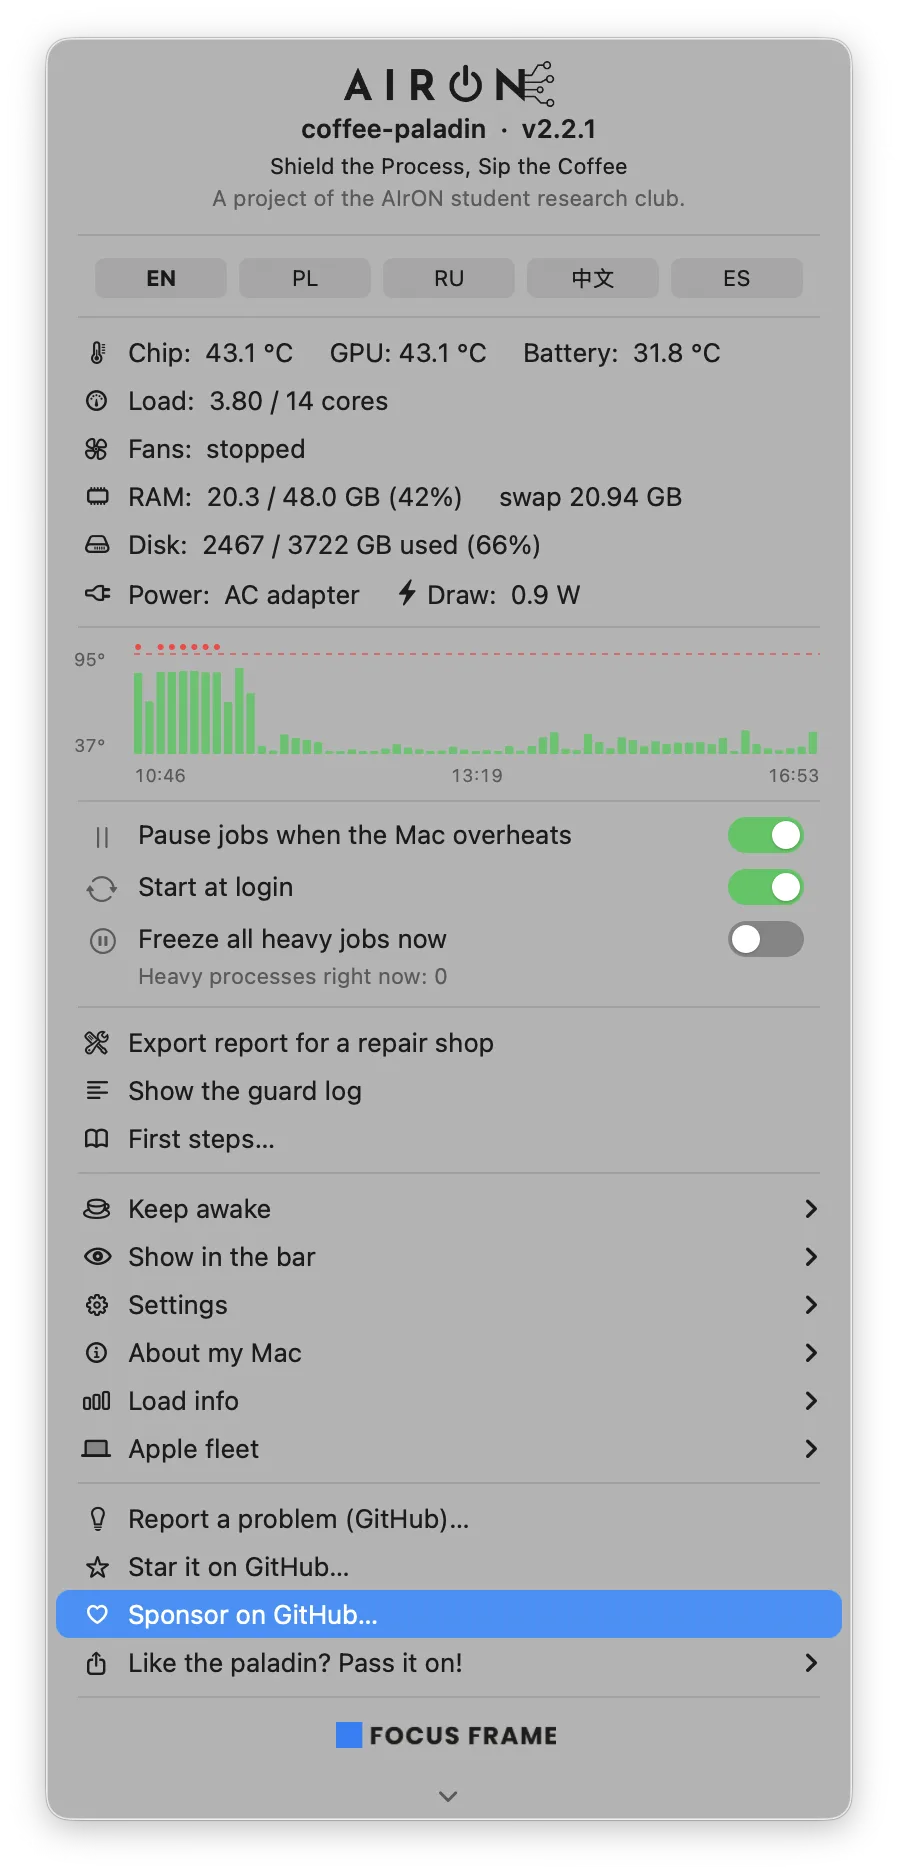
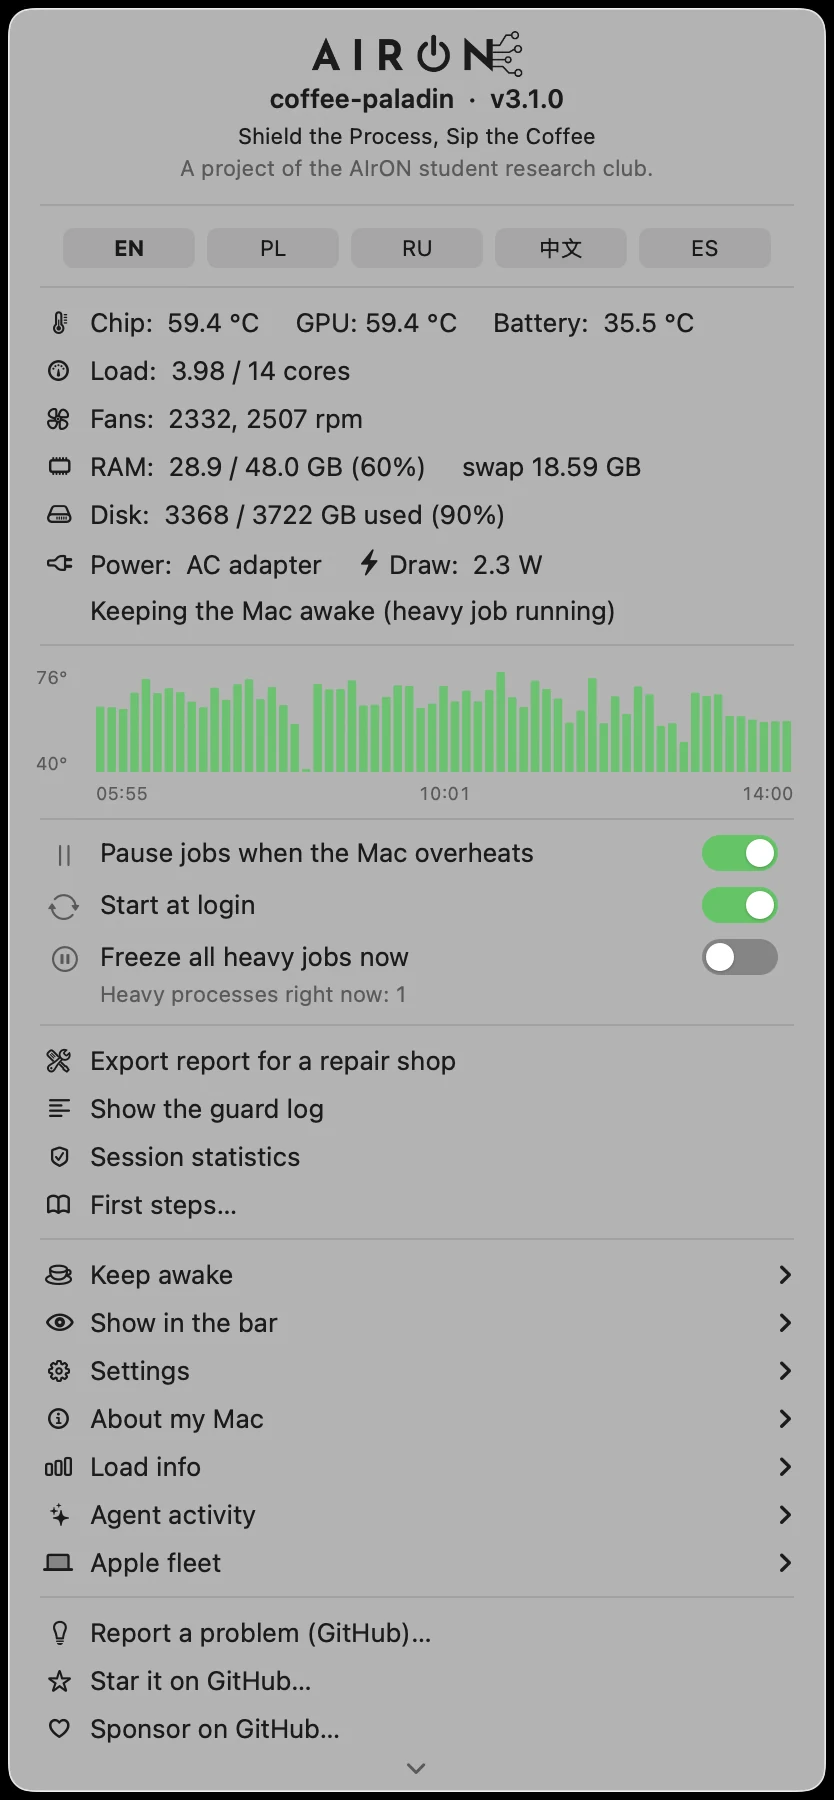
docs: 3.1 screenshots (menu, agent activity, session stats)

diff --git a/README.md b/README.md
@@ -478,6 +478,11 @@ each one started, with the thermal context. The menu bar shows it under
 alive - the marker's presence is the answer to "is an AI working right now".
 Off switch: `"agent_activity": false`.
 
+<p align="center">
+  <img src="docs/screens/agent_activity.webp" alt="Agent activity: live process trees of AI sessions, with thermal context" width="640">
+</p>
+<p align="center"><sub>Agent sessions and what each of them started - straight from the menu bar.</sub></p>
+
 
 ## Fleets: every Mac in one table
 
@@ -953,6 +958,11 @@ about 4 minutes to pause"), **what is heating the machine right now** (top 3 by 
 per-process proxy for heat there is) and **what is eating the RAM** (top 3 by resident memory),
 running `safe-run` jobs, today's intervention count, a manual **Freeze / Resume** control, and
 **Export report**.
+
+<p align="center">
+  <img src="docs/screens/session_stats.webp" alt="Session statistics: pauses, resumes, terminations, across the fleet" width="480">
+</p>
+<p align="center"><sub>The guard's own scoreboard: 570 pauses, 557 resumes after cooling, 2 terminations - across the fleet.</sub></p>
 
 The bar measures nothing itself - it reads `~/.coffee-paladin/status.json`, which the daemon writes
 every cycle. It therefore costs no CPU and can never disagree with the guard. Manual commands are
@@ -1672,6 +1682,11 @@ nie wstrzymuje, dopóki sam nie włączysz ochrony - jednym kliknięciem w pasku
   a znacznik ✨ na pasku świeci, póki jakakolwiek sesja żyje (sama obecność
   znacznika = odpowiedź na „czy AI teraz coś robi"); wyłącznik:
   `"agent_activity": false`
+
+<p align="center">
+  <img src="docs/screens/agent_activity.webp" alt="Aktywność agentów: żywe drzewa procesów sesji AI z kontekstem termicznym" width="640">
+</p>
+<p align="center"><sub>Sesje agentów i co każda z nich odpaliła - prosto z paska menu.</sub></p>
 - `heatbar` - pasek menu: świeża instalacja pokazuje stały rdzeń chip+RAM oraz
   elementy warunkowe, które świecą tylko gdy niosą wiadomość (wentylator gdy się
   kręci, bateria od 40 °C, znacznik sesji AI, dławienie, pauza; histereza 60 s) -
